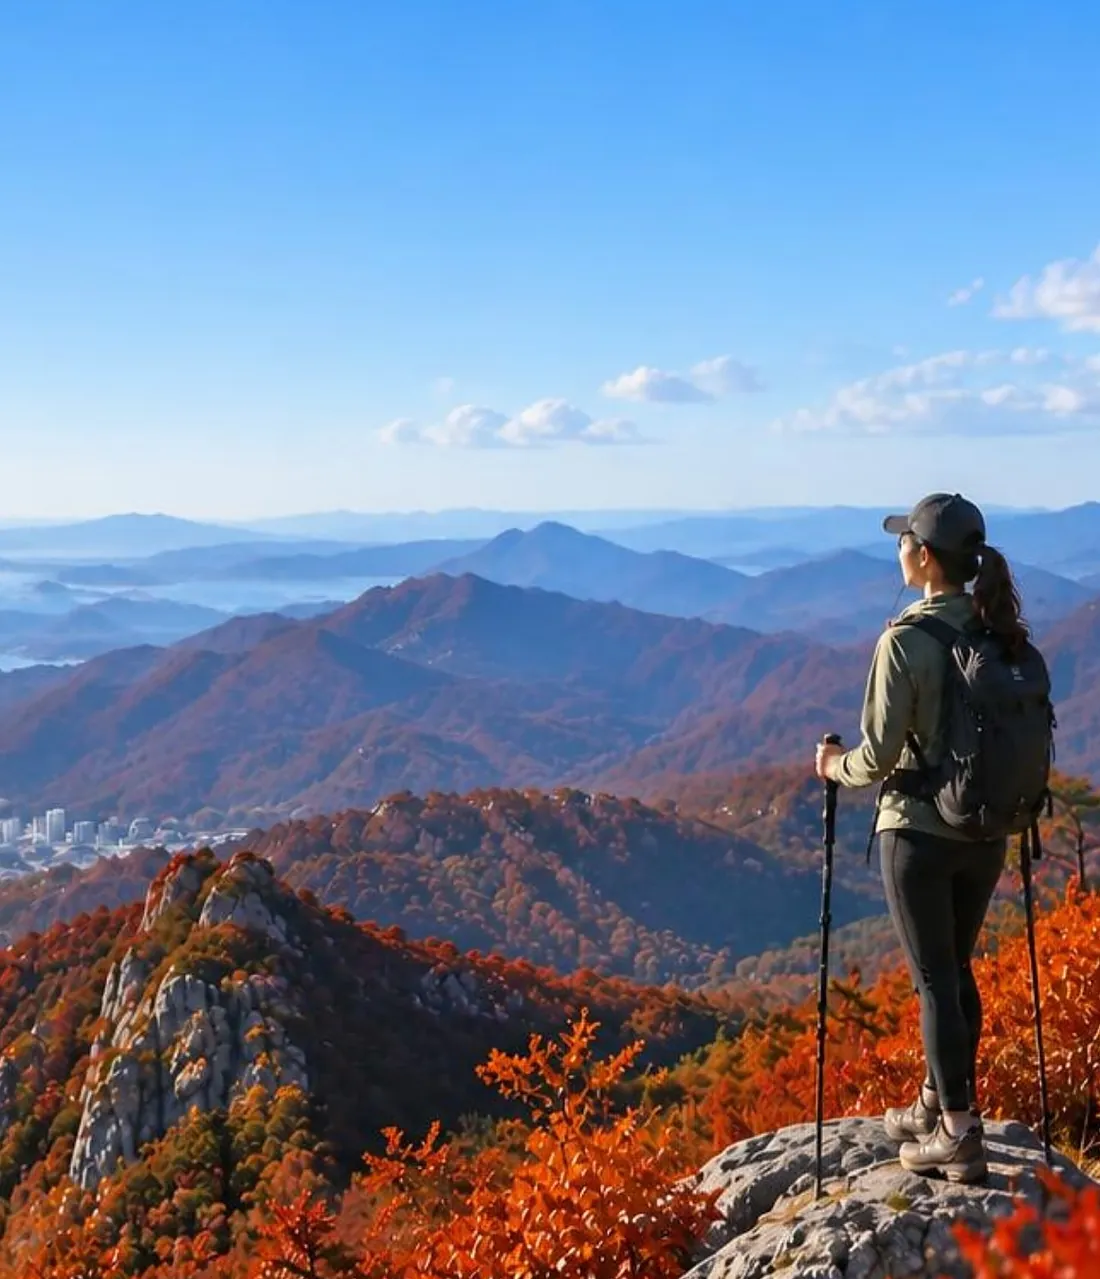
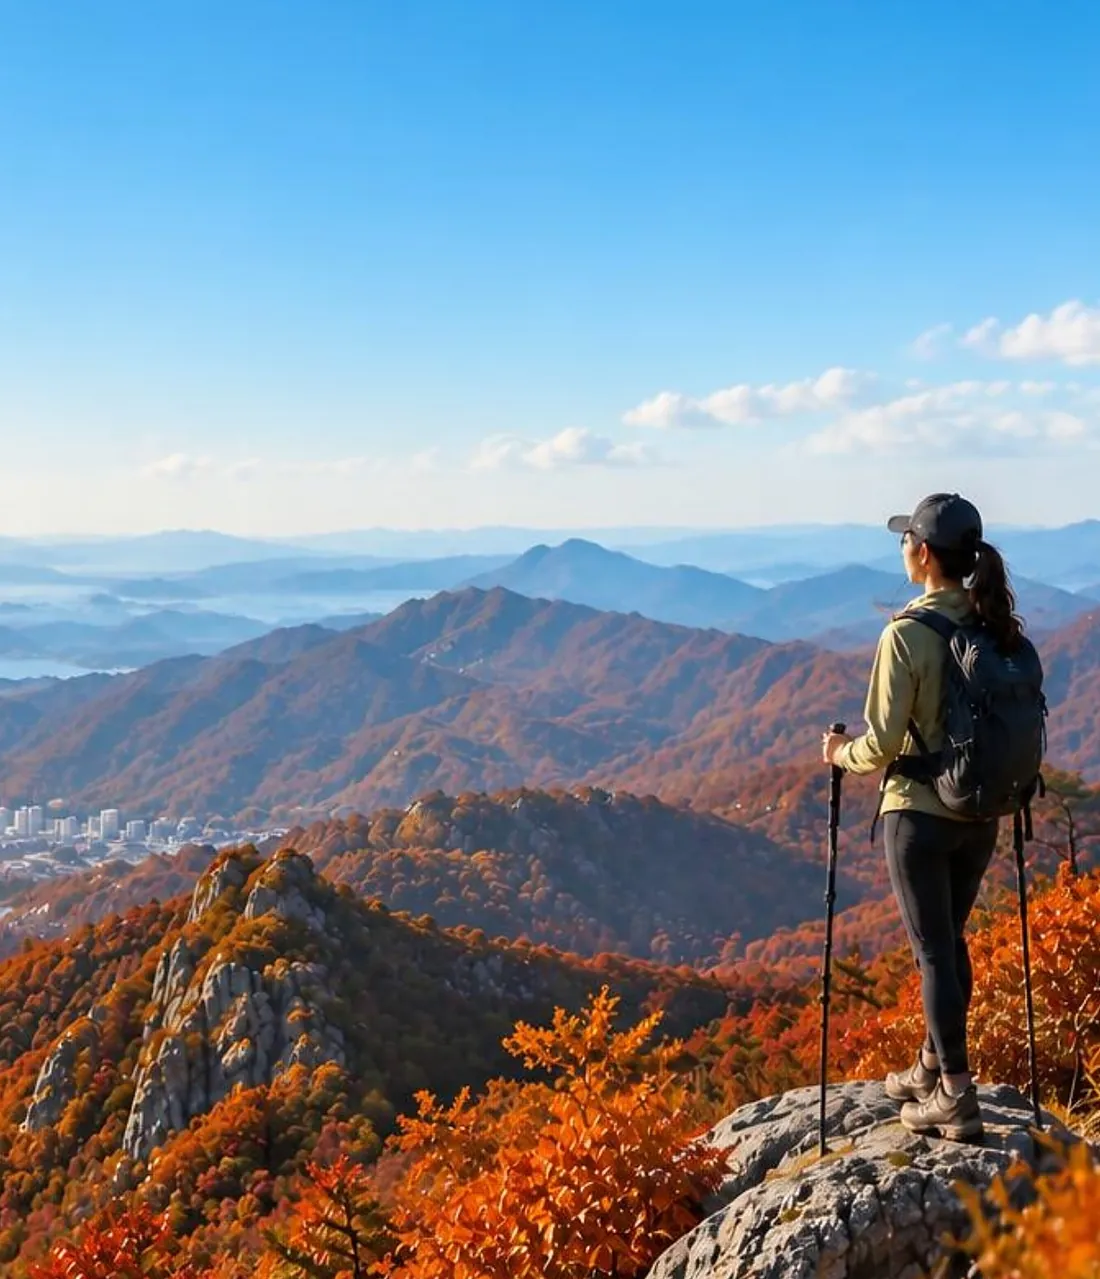
히어로 여름 낮·가을 낮 교체 (#18)
Claude-Session: https://claude.ai/code/session_01TTPn3ts8fEyWREDupZmwxM

diff --git a/_src.html b/_src.html
@@ -321,7 +321,7 @@ footer{background:var(--dark);color:rgba(255,255,255,.5);border-top:1px solid rg
       <img class="bg" id="heroImg" width="2560" height="1280" alt="산 정상 바위에 서서 다도해와 겹겹의 산줄기를 바라보는 등산객" fetchpriority="high" />
     </picture>
     <script>(function(){var k=window.__hero,i=document.getElementById("heroImg"),s=document.getElementById("heroSrc"),w=document.getElementById("bgwrap");
-var C={"spring-dawn":["#be9db3","#59474e"],"spring-day":["#b2cce2","#70766c"],"spring-evening":["#cfa680","#734f33"],"spring-night":["#122743","#101622"],"summer-dawn":["#ceb5a7","#5d5141"],"summer-day":["#95c3de","#3b6452"],"summer-evening":["#cd9570","#5e4e32"],"summer-night":["#121e2d","#0d1317"],"autumn-dawn":["#a77cb5","#5b3548"],"autumn-day":["#91bfec","#6c5558"],"autumn-evening":["#d4a66d","#7a4528"],"autumn-night":["#1d2d3e","#191518"],"winter-dawn":["#a5b0d1","#465c83"],"winter-day":["#aeceee","#74859a"],"winter-evening":["#8c7374","#4d3d4f"],"winter-night":["#142748","#182640"]};function fb(){s.srcset="/img/hero-m.webp";i.src="/img/hero.webp";w.style.backgroundImage="";}
+var C={"spring-dawn":["#be9db3","#59474e"],"spring-day":["#b2cce2","#70766c"],"spring-evening":["#cfa680","#734f33"],"spring-night":["#122743","#101622"],"summer-dawn":["#ceb5a7","#5d5141"],"summer-day":["#6aa9d9","#3c6756"],"summer-evening":["#cd9570","#5e4e32"],"summer-night":["#121e2d","#0d1317"],"autumn-dawn":["#a77cb5","#5b3548"],"autumn-day":["#96c6e7","#7b5e52"],"autumn-evening":["#d4a66d","#7a4528"],"autumn-night":["#1d2d3e","#191518"],"winter-dawn":["#a5b0d1","#465c83"],"winter-day":["#aeceee","#74859a"],"winter-evening":["#8c7374","#4d3d4f"],"winter-night":["#142748","#182640"]};function fb(){s.srcset="/img/hero-m.webp";i.src="/img/hero.webp";w.style.backgroundImage="";}
 if(!k){fb();return;}i.addEventListener("error",function(){if(!i.getAttribute("data-fb")){i.setAttribute("data-fb","1");fb();}});
 if(C[k])w.style.backgroundImage="linear-gradient(180deg,"+C[k][0]+","+C[k][1]+")";
 s.srcset="/img/hero/"+k+"-m.webp";i.src="/img/hero/"+k+".webp";})();</script>

diff --git a/index.html b/index.html
@@ -321,7 +321,7 @@ footer{background:var(--dark);color:rgba(255,255,255,.5);border-top:1px solid rg
       <img class="bg" id="heroImg" width="2560" height="1280" alt="산 정상 바위에 서서 다도해와 겹겹의 산줄기를 바라보는 등산객" fetchpriority="high" />
     </picture>
     <script>(function(){var k=window.__hero,i=document.getElementById("heroImg"),s=document.getElementById("heroSrc"),w=document.getElementById("bgwrap");
-var C={"spring-dawn":["#be9db3","#59474e"],"spring-day":["#b2cce2","#70766c"],"spring-evening":["#cfa680","#734f33"],"spring-night":["#122743","#101622"],"summer-dawn":["#ceb5a7","#5d5141"],"summer-day":["#95c3de","#3b6452"],"summer-evening":["#cd9570","#5e4e32"],"summer-night":["#121e2d","#0d1317"],"autumn-dawn":["#a77cb5","#5b3548"],"autumn-day":["#91bfec","#6c5558"],"autumn-evening":["#d4a66d","#7a4528"],"autumn-night":["#1d2d3e","#191518"],"winter-dawn":["#a5b0d1","#465c83"],"winter-day":["#aeceee","#74859a"],"winter-evening":["#8c7374","#4d3d4f"],"winter-night":["#142748","#182640"]};function fb(){s.srcset="/img/hero-m.webp";i.src="/img/hero.webp";w.style.backgroundImage="";}
+var C={"spring-dawn":["#be9db3","#59474e"],"spring-day":["#b2cce2","#70766c"],"spring-evening":["#cfa680","#734f33"],"spring-night":["#122743","#101622"],"summer-dawn":["#ceb5a7","#5d5141"],"summer-day":["#6aa9d9","#3c6756"],"summer-evening":["#cd9570","#5e4e32"],"summer-night":["#121e2d","#0d1317"],"autumn-dawn":["#a77cb5","#5b3548"],"autumn-day":["#96c6e7","#7b5e52"],"autumn-evening":["#d4a66d","#7a4528"],"autumn-night":["#1d2d3e","#191518"],"winter-dawn":["#a5b0d1","#465c83"],"winter-day":["#aeceee","#74859a"],"winter-evening":["#8c7374","#4d3d4f"],"winter-night":["#142748","#182640"]};function fb(){s.srcset="/img/hero-m.webp";i.src="/img/hero.webp";w.style.backgroundImage="";}
 if(!k){fb();return;}i.addEventListener("error",function(){if(!i.getAttribute("data-fb")){i.setAttribute("data-fb","1");fb();}});
 if(C[k])w.style.backgroundImage="linear-gradient(180deg,"+C[k][0]+","+C[k][1]+")";
 s.srcset="/img/hero/"+k+"-m.webp";i.src="/img/hero/"+k+".webp";})();</script>
